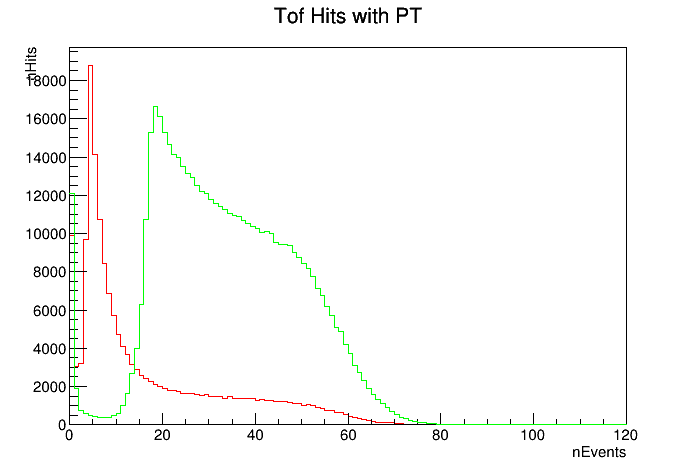
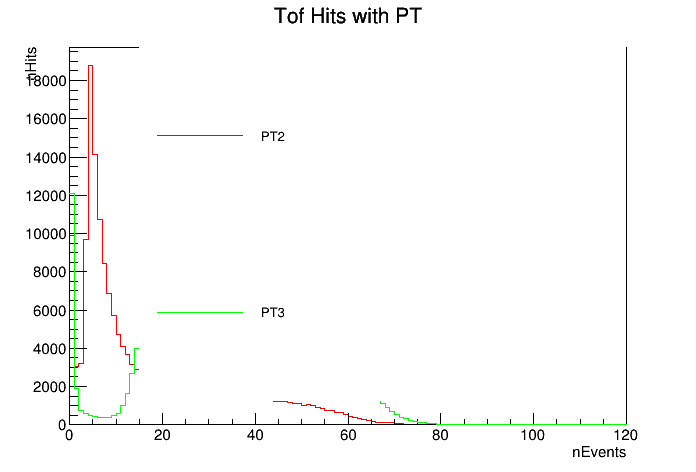
updates

diff --git a/macros/pics/TOF.C b/macros/pics/TOF.C
@@ -1,6 +1,6 @@
 {
 //=========Macro generated from canvas: c1/c1
-//=========  (Thu Nov 23 18:39:37 2017) by ROOT version5.34/34
+//=========  (Thu Nov 23 18:47:29 2017) by ROOT version5.34/34
    TCanvas *c1 = new TCanvas("c1", "c1",0,0,700,500);
    c1->Range(-15,-2467.763,135,22209.86);
    c1->SetFillColor(0);
@@ -237,6 +237,32 @@
    hTof->GetZaxis()->SetTitleSize(0.035);
    hTof->GetZaxis()->SetTitleFont(42);
    hTof->Draw("same");
+   
+   TLegend *leg = new TLegend(0.2,0.15,0.9,0.9,NULL,"brNDC");
+   leg->SetBorderSize(0);
+   leg->SetTextSize(0.03);
+   leg->SetLineColor(1);
+   leg->SetLineStyle(1);
+   leg->SetLineWidth(1);
+   leg->SetFillColor(0);
+   leg->SetFillStyle(1001);
+   TLegendEntry *entry=leg->AddEntry("hTof","PT2","l");
+   entry->SetLineColor(2);
+   entry->SetLineStyle(1);
+   entry->SetLineWidth(1);
+   entry->SetMarkerColor(1);
+   entry->SetMarkerStyle(21);
+   entry->SetMarkerSize(1);
+   entry->SetTextFont(42);
+   entry=leg->AddEntry("hTof","PT3","l");
+   entry->SetLineColor(3);
+   entry->SetLineStyle(1);
+   entry->SetLineWidth(1);
+   entry->SetMarkerColor(1);
+   entry->SetMarkerStyle(21);
+   entry->SetMarkerSize(1);
+   entry->SetTextFont(42);
+   leg->Draw();
    
    TPaveText *pt = new TPaveText(0.3592529,0.94,0.6407471,0.995,"blNDC");
    pt->SetName("title");
